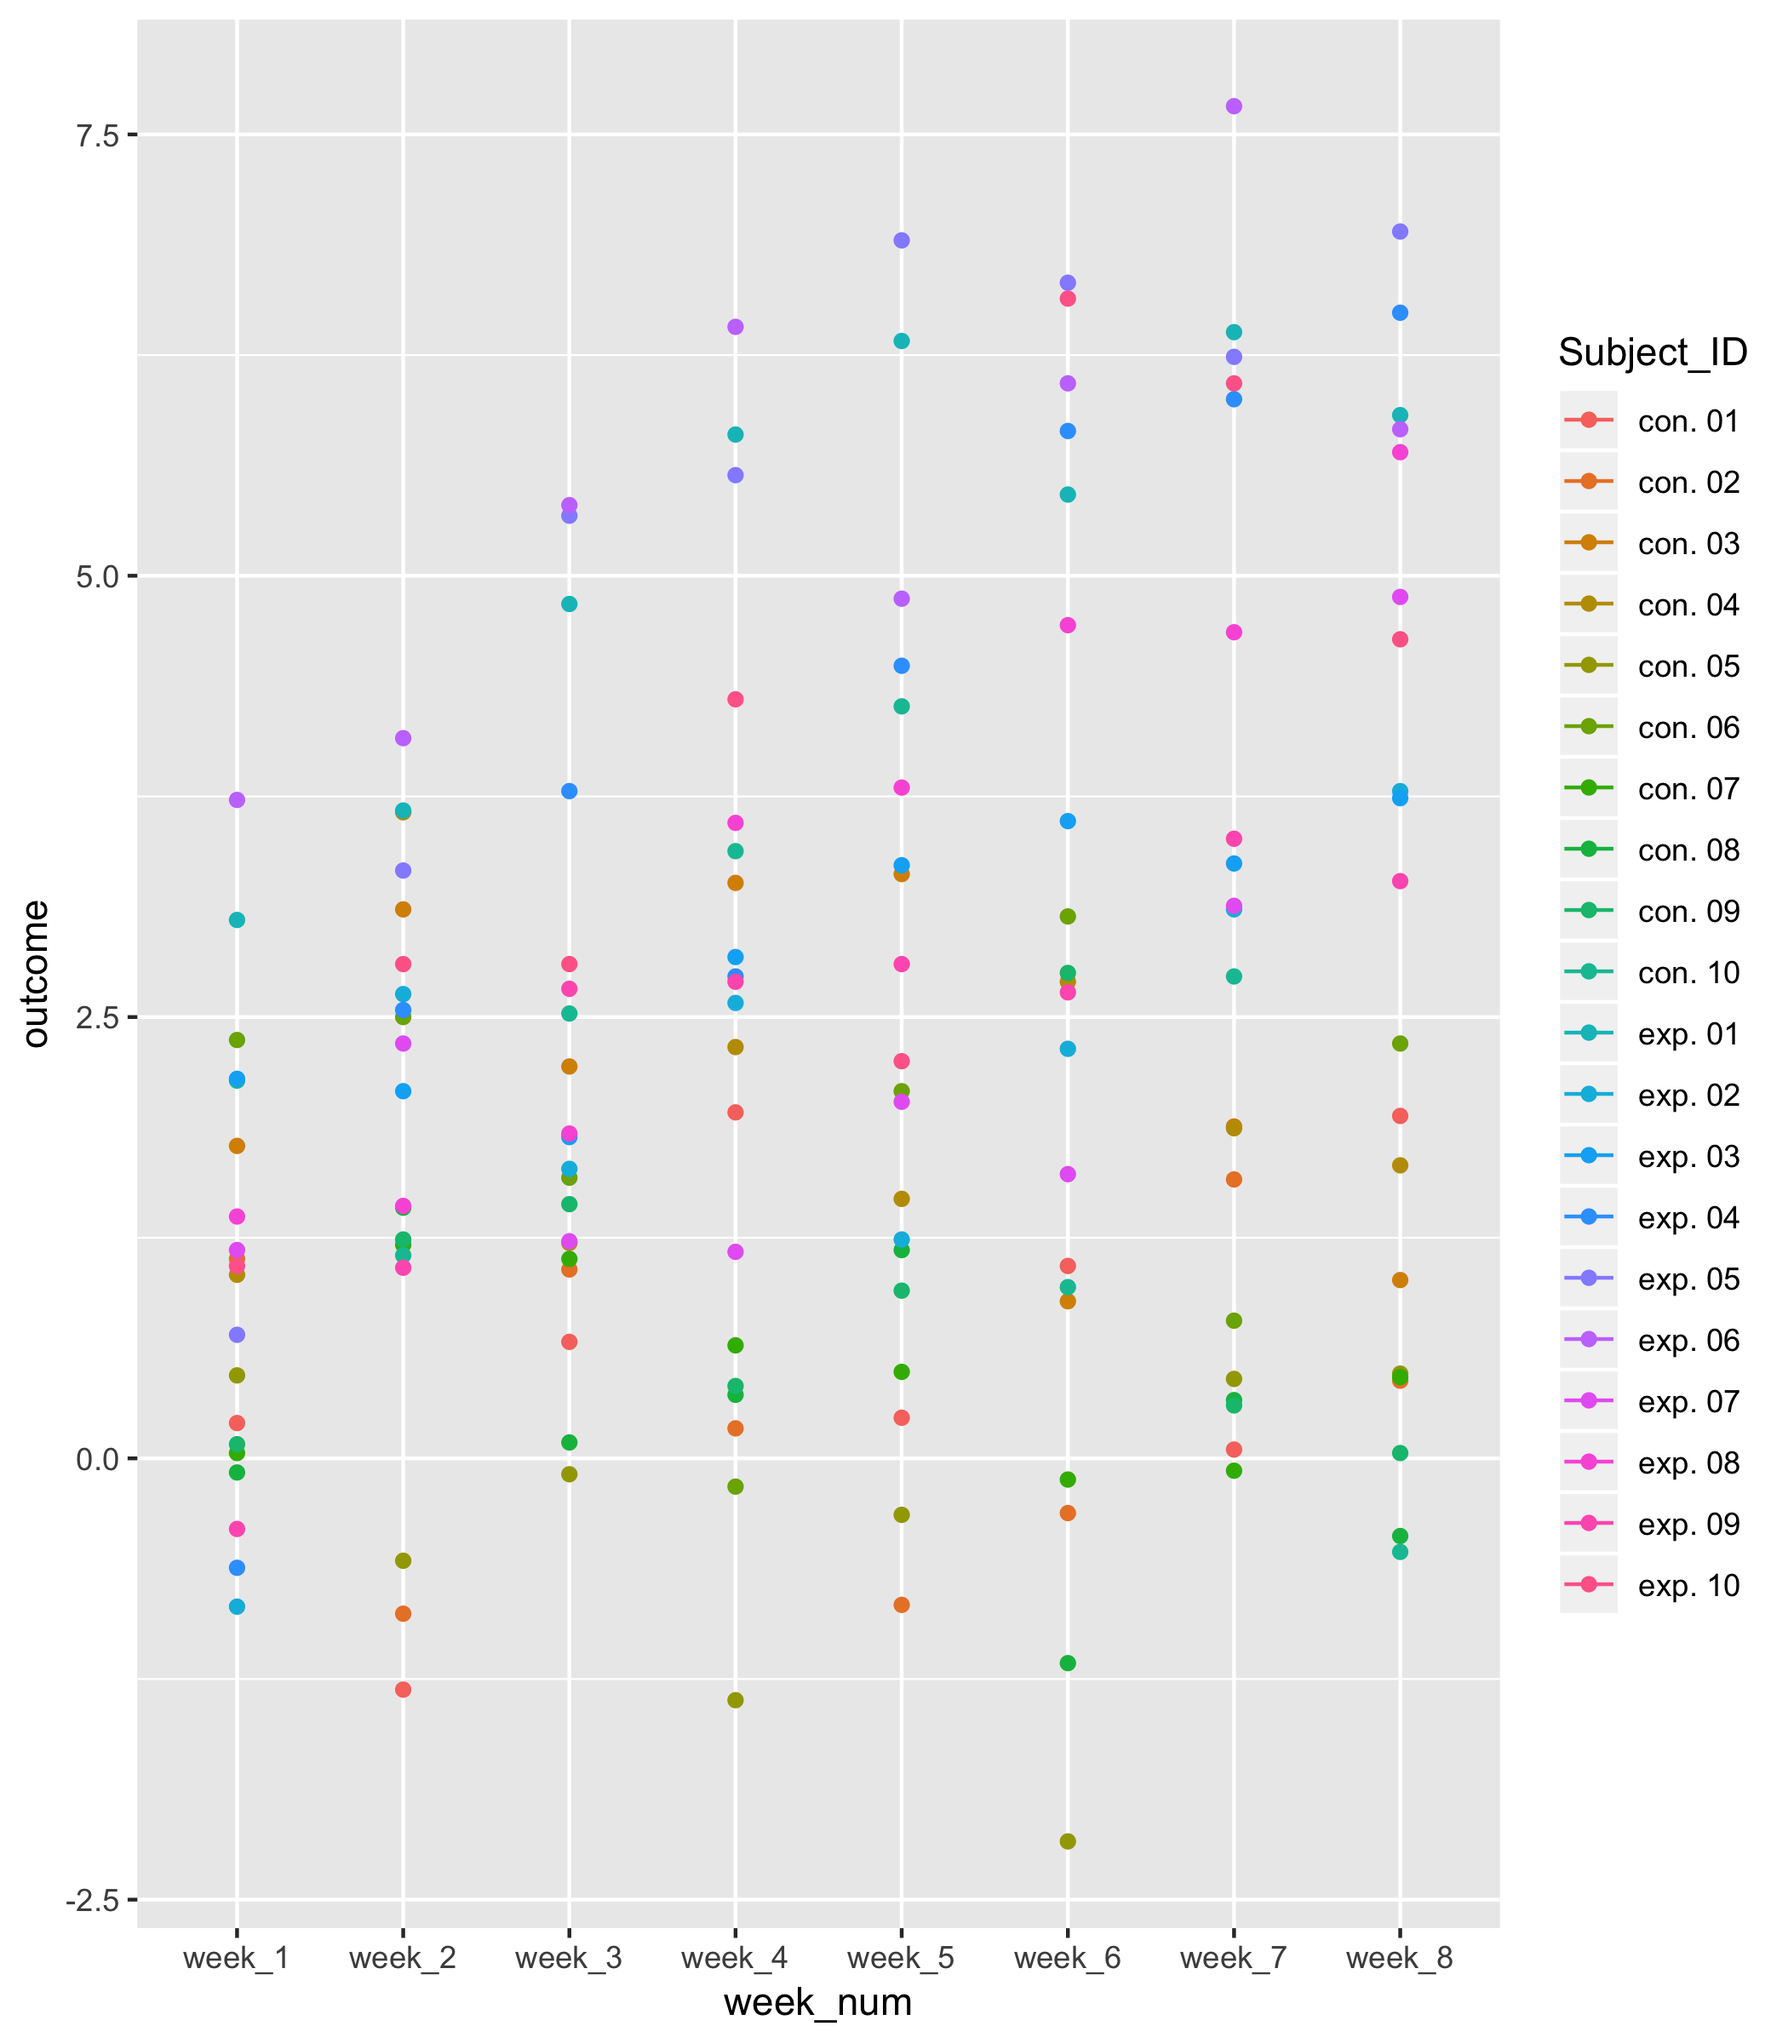
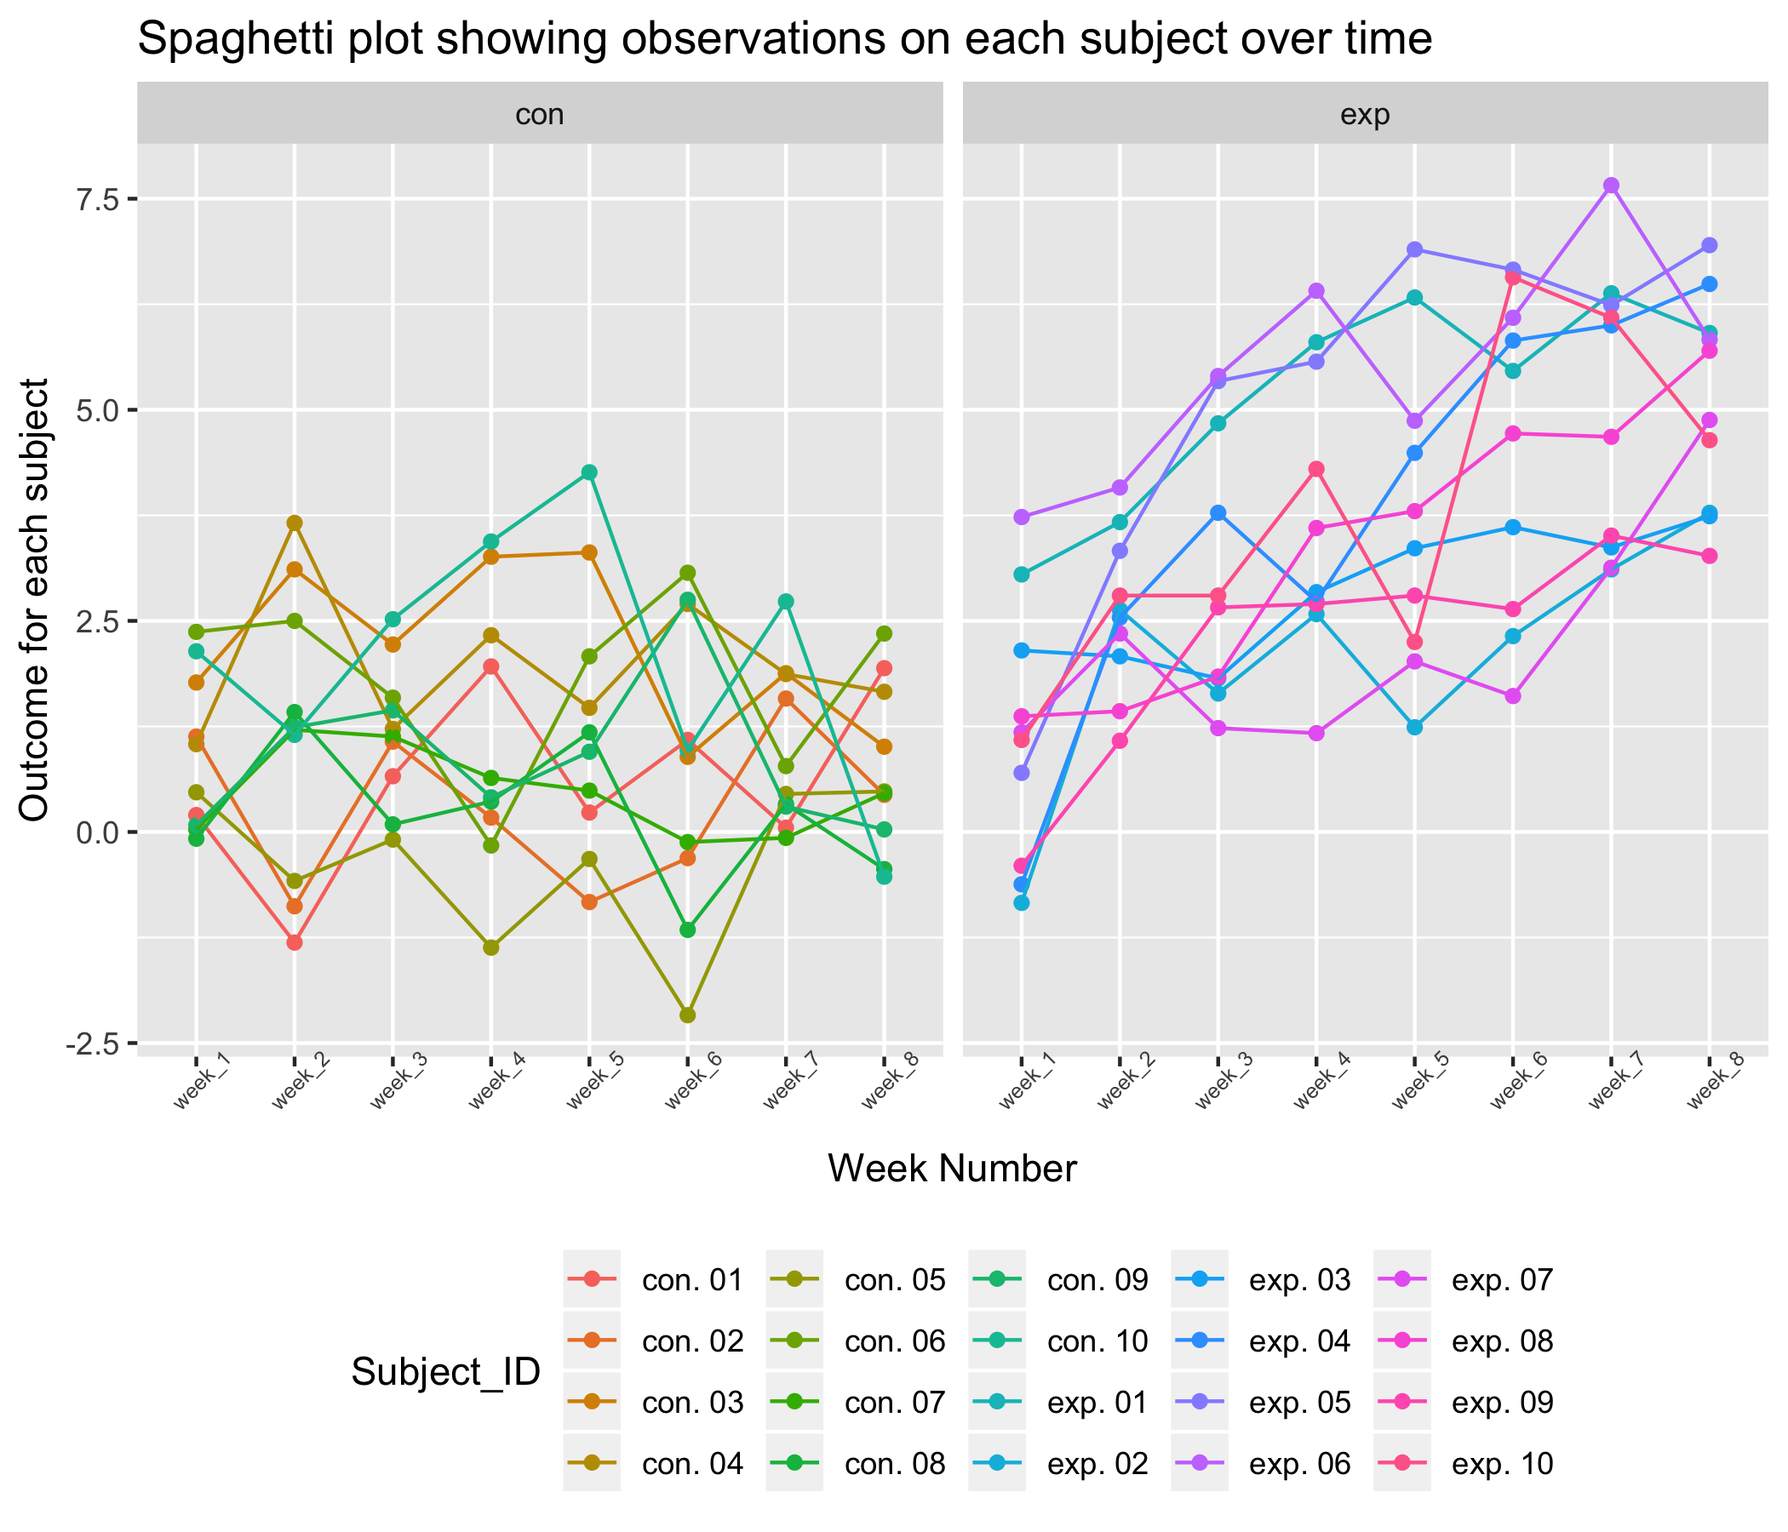
Modifying around.

diff --git a/p8105_hw5_mm5354.md b/p8105_hw5_mm5354.md
@@ -16,7 +16,7 @@ csv_load_and_tidy = function(path) {
 setwd("/Users/nadongma/Desktop/p8105_hw5_mm5354/data")
 
 list_of_csvs =  data.frame(list.files()) %>% 
-  separate(list.files.., into = c("group", "subject_ID"), sep = "_")
+  separate(list.files.., into = c("control_arm", "subject_ID"), sep = "_")
 
 list_of_csvs = list_of_csvs %>% 
   separate(subject_ID, into = c("Subject_ID"), sep = ".csv") %>% 
@@ -257,18 +257,24 @@ output_csvs = map(list_of_csvs$path, csv_load_and_tidy) %>%
 ``` r
 output_csvs = cbind(output_csvs, list_of_csvs) %>% 
   select(-path) %>% 
-  unite(Subject_ID, group, Subject_ID, sep = ". ", remove = FALSE)
+  unite(Subject_ID, control_arm, Subject_ID, sep = ". ", remove = FALSE)
 ```
 
 ``` r
 output_csvs %>%
   gather(key = week_num, value = outcome, week_1:week_8) %>% 
-  ggplot(aes(x = week_num, y = outcome, color = Subject_ID)) + 
-    geom_point() + geom_line()
+  ggplot(aes(x = week_num, y = outcome, color = Subject_ID, group = Subject_ID)) + 
+    geom_point() + 
+    geom_line() + 
+    facet_grid(~control_arm) +
+    theme(axis.text.x = element_text(angle = 45, size = 6)) +
+    theme(legend.position = "bottom") +
+    labs(
+      title = "Spaghetti plot showing observations on each subject over time",
+      x = "Week Number",
+      y = "Outcome for each subject"
+      ) 
 ```
-
-    ## geom_path: Each group consists of only one observation. Do you need to
-    ## adjust the group aesthetic?
 
 ![](p8105_hw5_mm5354_files/figure-markdown_github/spaghetti_plot-1.png)
 
@@ -302,41 +308,39 @@ tidy_data =
 
 ``` r
 total_number_homicides = tidy_data %>% 
-  group_by(city) %>%
+  group_by(city_state) %>%
   summarize(total_num_homicides = n())
 
 number_unsolved_homicides = tidy_data %>%
   filter(disposition == "Closed without arrest" | disposition == "Open/No arrest") %>%
-  group_by(city) %>%
-  summarize(num_unsolved_homicides = n())
+  group_by(city_state) %>%
+  summarize(num_unsolved_homicides = n()) 
   
-proportion_test_data = left_join(total_number_homicides, number_unsolved_homicides)
+proportion_test_data = left_join(total_number_homicides, number_unsolved_homicides) 
 ```
 
-    ## Joining, by = "city"
+    ## Joining, by = "city_state"
 
 ``` r
-#broom::tidy(map2(.x = proportion_test_data$num_unsolved_homicides[1:50], .n = proportion_test_data$total_num_homicides[1:50], .f = prop.test(x = .x, n = .n)))
+proportion_test_data[is.na(proportion_test_data)] <- 0
 
-output_proportion_test = vector("list", length = 50)
+proportion_test_output = map2(.x = proportion_test_data$num_unsolved_homicides, .y = proportion_test_data$total_num_homicides, ~prop.test(.x, .y))
+```
 
-for (i in 1:50) {
-  output_proportion_test[[i]] = broom::tidy(prop.test(proportion_test_data$num_unsolved_homicides[i],proportion_test_data$total_num_homicides[i]))
-}
+    ## Warning in prop.test(.x, .y): Chi-squared approximation may be incorrect
 
-#proportion_test_data = tibble(cbind(proportion_test_data$city, bind_rows(output_proportion_test)[1:6]))
-
-output_proportion_test = bind_rows(output_proportion_test) %>% 
-  mutate(city = proportion_test_data$city) %>%
+``` r
+proportion_test_output = map_df(.x = proportion_test_output, ~broom::tidy(.x)) %>%
+  mutate(city_state = proportion_test_data$city_state) %>%
   select(-method, -alternative)
 ```
 
 Create a plot that shows the estimates and CIs for each city. Organize cities according to the proportion of unsolved homicides.
 
 ``` r
-output_proportion_test %>% 
-  mutate(city = fct_reorder(city, estimate)) %>%
-  ggplot(aes(x = city, y = estimate, color = city)) +
+proportion_test_output %>% 
+  mutate(city_state = fct_reorder(city_state, estimate)) %>%
+  ggplot(aes(x = city_state, y = estimate, color = city_state)) +
   geom_point() +
   geom_errorbar(aes(ymin = conf.low , ymax = conf.high), width = 0.25) +
   labs(
@@ -353,32 +357,11 @@ output_proportion_test %>%
 For the city of Baltimore, MD, use the prop.test function to estimate the proportion of homicides that are unsolved; save the output of prop.test as an R object, apply the broom::tidy to this object and pull the estimated proportion and confidence intervals from the resulting tidy dataframe.
 
 ``` r
-Baltimore_proportion_test = broom::tidy(prop.test(number_unsolved_homicides$num_unsolved_homicides[number_unsolved_homicides$city == "Baltimore"],total_number_homicides$total_num_homicides[total_number_homicides$city == "Baltimore"], conf.level = 0.95, correct = TRUE))
+Baltimore_proportion_test = broom::tidy(prop.test(proportion_test_data$num_unsolved_homicides[proportion_test_data$city_state == "Baltimore, MD"],proportion_test_data$total_num_homicides[proportion_test_data$city_state == "Baltimore, MD"], conf.level = 0.95, correct = TRUE))
 ```
 
 Using the prop.test function to estimate the proportion of homicides that are unsolved: **estimated proportion = 0.6455607, confidence interval = (0.6275625 , 0.6631599).**
 
 ``` r
-broom::tidy(prop.test(number_unsolved_homicides$num_unsolved_homicides,total_number_homicides$total_num_homicides, conf.level = 0.95, correct = TRUE))
+#broom::tidy(prop.test(proportion_test_data$num_unsolved_homicides,proportion_test_data$total_num_homicides, conf.level = 0.95, correct = TRUE))
 ```
-
-    ## # A tibble: 1 x 55
-    ##   estimate1 estimate2 estimate3 estimate4 estimate5 estimate6 estimate7
-    ##       <dbl>     <dbl>     <dbl>     <dbl>     <dbl>     <dbl>     <dbl>
-    ## 1     0.386     0.383     0.646     0.462     0.434     0.505     0.612
-    ## # ... with 48 more variables: estimate8 <dbl>, estimate9 <dbl>,
-    ## #   estimate10 <dbl>, estimate11 <dbl>, estimate12 <dbl>,
-    ## #   estimate13 <dbl>, estimate14 <dbl>, estimate15 <dbl>,
-    ## #   estimate16 <dbl>, estimate17 <dbl>, estimate18 <dbl>,
-    ## #   estimate19 <dbl>, estimate20 <dbl>, estimate21 <dbl>,
-    ## #   estimate22 <dbl>, estimate23 <dbl>, estimate24 <dbl>,
-    ## #   estimate25 <dbl>, estimate26 <dbl>, estimate27 <dbl>,
-    ## #   estimate28 <dbl>, estimate29 <dbl>, estimate30 <dbl>,
-    ## #   estimate31 <dbl>, estimate32 <dbl>, estimate33 <dbl>,
-    ## #   estimate34 <dbl>, estimate35 <dbl>, estimate36 <dbl>,
-    ## #   estimate37 <dbl>, estimate38 <dbl>, estimate39 <dbl>,
-    ## #   estimate40 <dbl>, estimate41 <dbl>, estimate42 <dbl>,
-    ## #   estimate43 <dbl>, estimate44 <dbl>, estimate45 <dbl>,
-    ## #   estimate46 <dbl>, estimate47 <dbl>, estimate48 <dbl>,
-    ## #   estimate49 <dbl>, estimate50 <dbl>, statistic <dbl>, p.value <dbl>,
-    ## #   parameter <dbl>, method <chr>, alternative <chr>
